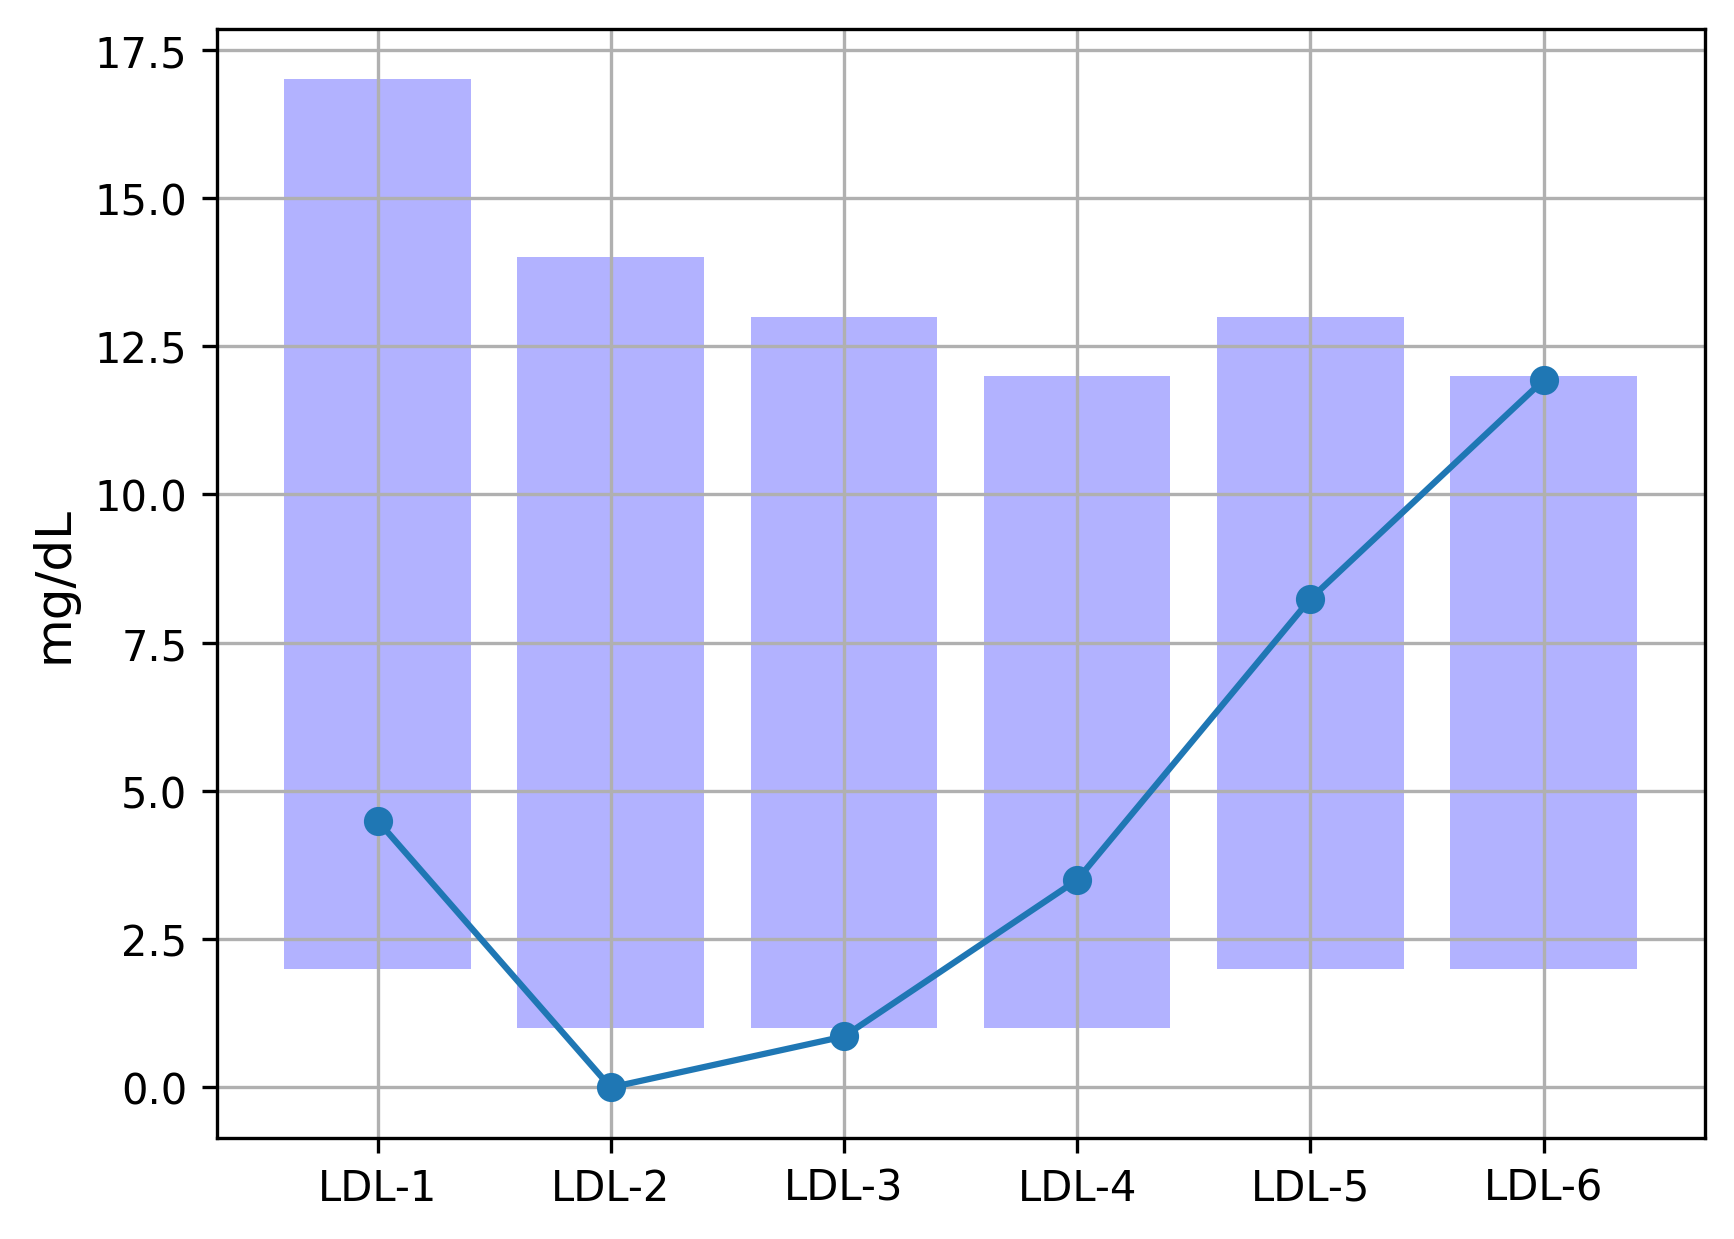
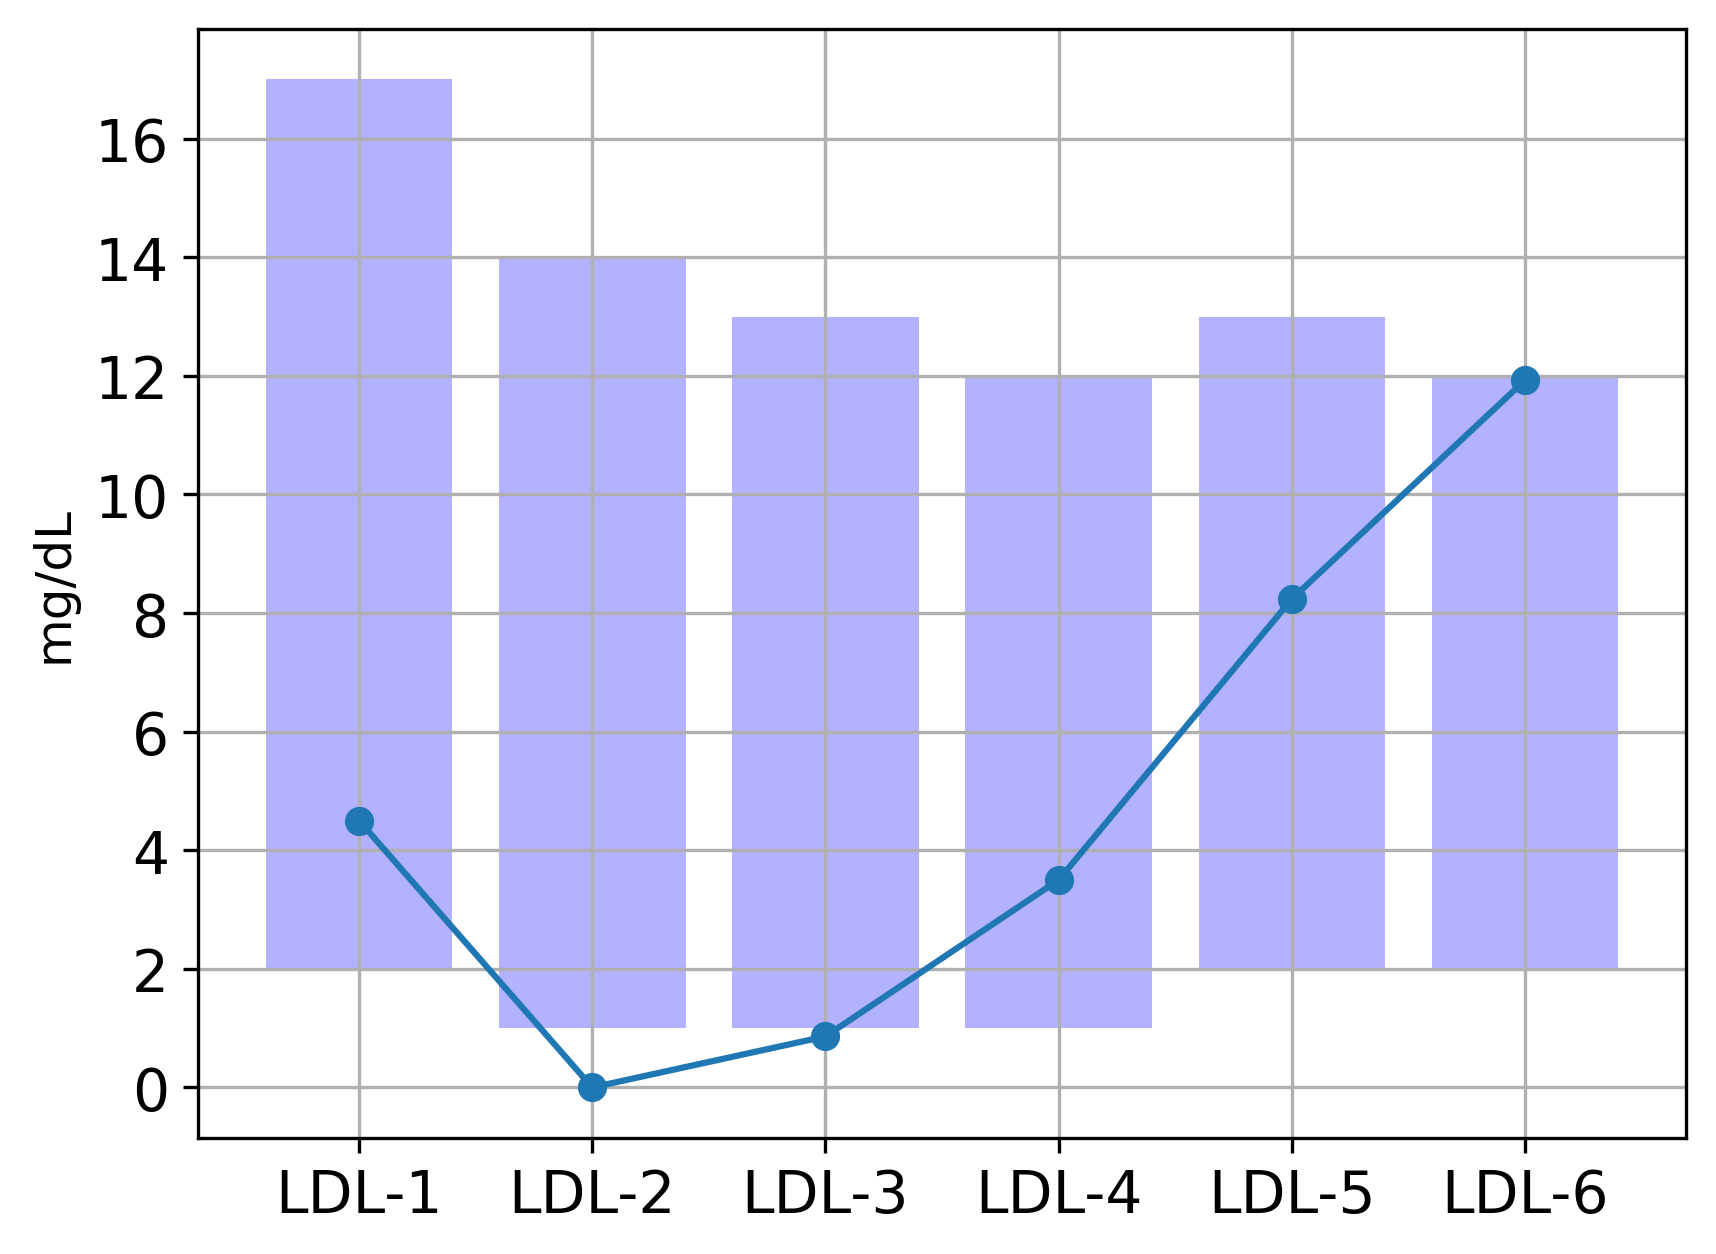
Fixed Lipoprotein Subfractions page look. Added print

diff --git a/Update/PageLayout.html b/Update/PageLayout.html
@@ -5,10 +5,12 @@
     <meta charset="UTF-8">
     <meta name="viewport" content="width=device-width, initial-scale=1.0">
     <title>NMR Lipoprotein</title>
-    <link rel="stylesheet" type="text/css" href="v3_css.css" />
+    <link rel="stylesheet" type="text/css" href="pagestyle.css" />
 </head>
 
 <body>
+    <div><button id="printPageButton" onClick="window.print()">Print the results
+        </button></div>
     <section id="profile_page">
         <!--Has TPTG_box, TPCH_box, LDCH, HDCH_box, TPA1_box, TPA2_box, TPAB_box, TBPN;
         TBPN, LDCH range
@@ -250,7 +252,7 @@
                     <label for="ldlpn" , style="font-weight: bolder;font-size: large; padding-left: 10.5em;">LDL
                         Particle Number
                     </label>
-                    <img src="all_files/LDPL_box.png" style="width:80px;height:30px">
+                    <img src="all_files/LDPN_box.png" style="width:80px;height:30px">
                     <img src="all_files/LDPN.png" style="width:316px;height:70px" , id="ldlpn">
                 </div>
             </div>
@@ -287,29 +289,29 @@
             <div class="Chol" style=" writing-mode: vertical-lr;transform: rotate(180deg)">Cholesterol</div>
             <div class="Free-Chol" style="writing-mode: vertical-lr;transform: rotate(180deg)">Free Cholesterol</div>
             <div class="Phospholipid" style="writing-mode: vertical-lr;transform: rotate(180deg)">Phospholipid</div>
-            <div class="x"><img src="all_files/HDL_SUBF/triglycerides.png" alt="HDL triglycerides" width=269px
+            <div class="x"><img src="all_files/HDL_SUBF/triglycerides.png" alt="HDL triglycerides" width=280px
                     height=269px></div>
-            <div class="y"><img src="all_files/HDL_SUBF/chol.png" alt="HDL cholesterol" width=269px height=269px></div>
-            <div class="z"><img src="all_files/HDL_SUBF/freechol.png" alt="HDL free cholesterol" width=269px
+            <div class="y"><img src="all_files/HDL_SUBF/chol.png" alt="HDL cholesterol" width=280px height=269px></div>
+            <div class="z"><img src="all_files/HDL_SUBF/freechol.png" alt="HDL free cholesterol" width=280px
                     height=269px></div>
-            <div class="a"><img src="all_files/HDL_SUBF/phospholipid.png" alt="HDL phospholipid" width=269px
+            <div class="a"><img src="all_files/HDL_SUBF/phospholipid.png" alt="HDL phospholipid" width=280px
                     height=269px>
             </div>
-            <div class="f"><img src="all_files/LDL_SUBF/triglycerides.png" alt="LDL triglycerides" width=269px
+            <div class="f"><img src="all_files/LDL_SUBF/triglycerides.png" alt="LDL triglycerides" width=280px
                     height=269px></div>
-            <div class="g"><img src="all_files/LDL_SUBF/chol.png" alt="LDL cholesterol" width=269px height=269px></div>
-            <div class="h"><img src="all_files/LDL_SUBF/freechol.png" alt="LDL free cholesterol" width=269px
+            <div class="g"><img src="all_files/LDL_SUBF/chol.png" alt="LDL cholesterol" width=280px height=269px></div>
+            <div class="h"><img src="all_files/LDL_SUBF/freechol.png" alt="LDL free cholesterol" width=280px
                     height=269px></div>
-            <div class="ı"><img src="all_files/LDL_SUBF/phospholipid.png" alt="LDL phospholipid" width=269px
+            <div class="ı"><img src="all_files/LDL_SUBF/phospholipid.png" alt="LDL phospholipid" width=280px
                     height=269px>
             </div>
-            <div class="i"><img src="all_files/VLDL_SUBF/triglycerides.png" alt="VLDL triglycerides" width=269px
+            <div class="i"><img src="all_files/VLDL_SUBF/triglycerides.png" alt="VLDL triglycerides" width=280px
                     height=269px></div>
-            <div class="j"><img src="all_files/VLDL_SUBF/chol.png" alt="VLDL cholesterol" width=269px height=269px>
+            <div class="j"><img src="all_files/VLDL_SUBF/chol.png" alt="VLDL cholesterol" width=280px height=269px>
             </div>
-            <div class="k"><img src="all_files/VLDL_SUBF/freechol.png" alt="VLDL free cholesterol" width=269px
+            <div class="k"><img src="all_files/VLDL_SUBF/freechol.png" alt="VLDL free cholesterol" width=280px
                     height=269px></div>
-            <div class="l"><img src="all_files/VLDL_SUBF/phospholipid.png" alt="VLDL phospholipid" width=269px
+            <div class="l"><img src="all_files/VLDL_SUBF/phospholipid.png" alt="VLDL phospholipid" width=280px
                     height=269px></div>
 
         </div>
@@ -318,6 +320,7 @@
             <p>Shaded areas represent 95% range of model, black points represent patient results.</p>
         </div>
     </section>
+
     <!--
     <script>
         function Print() {

diff --git a/Update/pagestyle.css b/Update/pagestyle.css
@@ -1,14 +1,21 @@
-@media all {
-    .page-break {
+@media print {
+    #printPageButton {
         display: none;
     }
-}
 
-@media print {
     .page-break {
         display: block;
         page-break-before: always;
     }
+
+    @page {
+        size: A4;
+        margin-left: 0.3cm;
+        margin-right: 0.3cm;
+        margin-top: auto;
+    }
+
+
 }
 
 hr {
@@ -75,14 +82,14 @@ hr {
 
 #profile_page .secrow .range_container {
     display: grid;
-    grid-template-columns: 357px 239px 296px;
+    grid-template-columns: 357px 141px 296px;
     align-items: center;
     justify-content: left;
 }
 
 #profile_page .secrow .box_container {
     display: grid;
-    grid-template-columns: 357px 239px 226px;
+    grid-template-columns: 357px 141px 226px;
     align-items: center;
     justify-content: left;
 }
@@ -126,7 +133,7 @@ hr {
 
 #lipid_distribution .container {
     display: grid;
-    grid-template-columns: 50px 269px 269px 269px;
+    grid-template-columns: 50px 280px 280px 280px;
     grid-template-rows: 40px 269px 269px 269px 269px;
     gap: 0px 0px;
     grid-auto-flow: row;
@@ -245,7 +252,7 @@ hr {
     size: 20px;
     width: auto;
     font-weight: bold;
-    margin: -2.5em 2px -2em 0px;
+    margin: -2.5em 2px 0em 0px;
     padding-top: 0.5em;
     padding-left: 15px;
     padding-bottom: 0.5em;

diff --git a/Update/Subfractions.py b/Update/Subfractions.py
@@ -1,5 +1,6 @@
 import pandas as pd
 import matplotlib.pyplot as plt
+from matplotlib.ticker import MaxNLocator
 from save_plot import  insert_plot as IP
 
 def table(df,where):
@@ -10,6 +11,10 @@ def table(df,where):
     ax.bar(df.index, df['highest'] - df['lowest'], color='blue', bottom=df['lowest'], alpha=0.3)
 
     ax.set_ylabel('mg/dL', fontsize=12)
+    ax.tick_params(axis='both', which='major', labelsize=14)
+
+    ax.yaxis.set_major_locator(MaxNLocator(integer=True))
+    ax.xaxis.set_major_locator(MaxNLocator(integer=True))
 
     plt.grid(True)
     IP(f"{test}.png",plt, f"{lp}_SUBF")
@@ -71,9 +76,9 @@ def Phospolipid(patient):
     vldl_range = pd.DataFrame({"lowest": [1,1,1,2,0],"highest": [32,15,14,13,5]}, index = vldl.index)
 
     hdl_df, ldl_df, vldl_df = join(hdl, hdl_range, ldl,ldl_range, vldl, vldl_range)
-    table(hdl_df,"HDL phospolipid")
-    table(ldl_df,"LDL phospolipid")
-    table(vldl_df,"VLDL phospolipid")
+    table(hdl_df,"HDL phospholipid")
+    table(ldl_df,"LDL phospholipid")
+    table(vldl_df,"VLDL phospholipid")
 
 def Triglycerides(patient):
     hdl = patient.HDL_sub_tg
